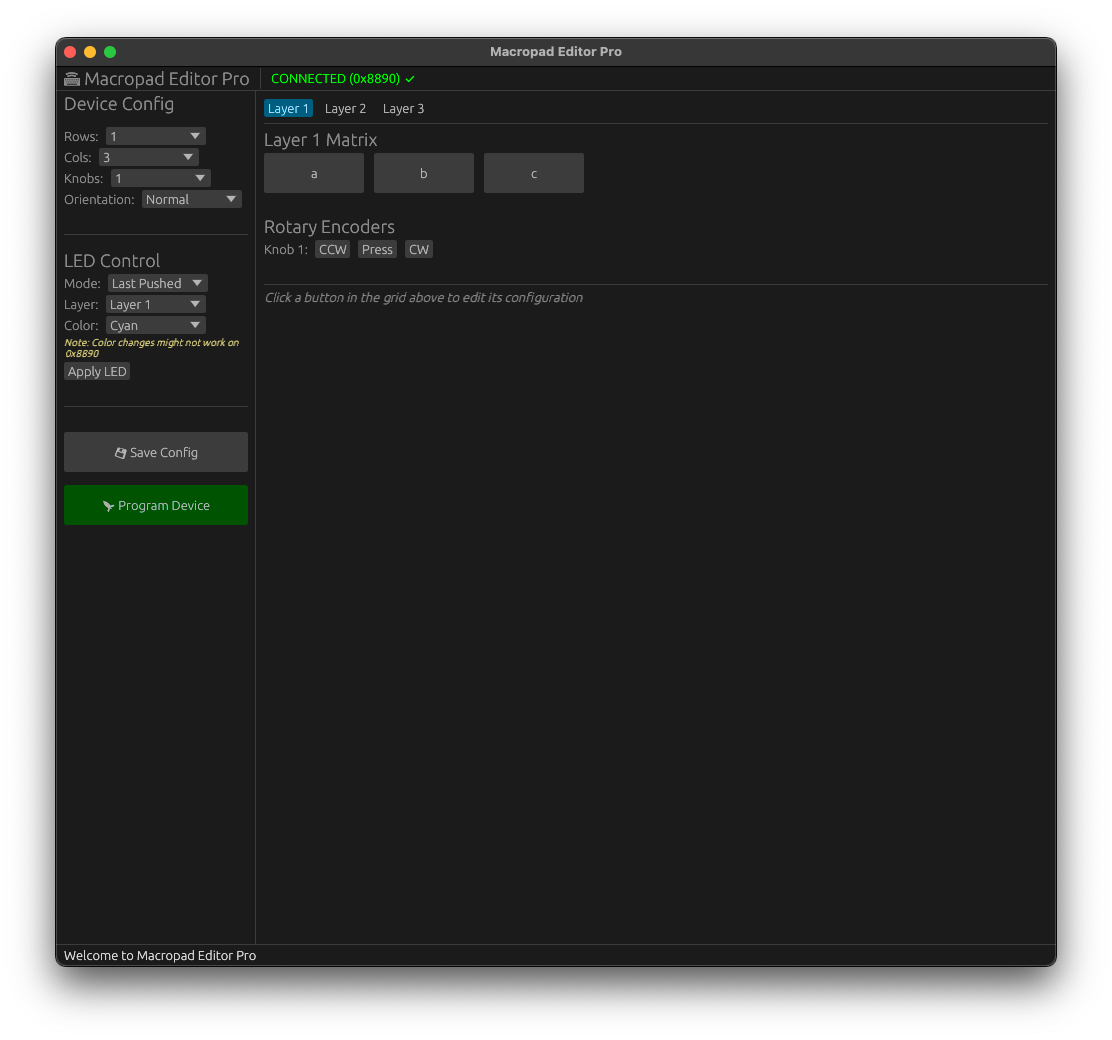
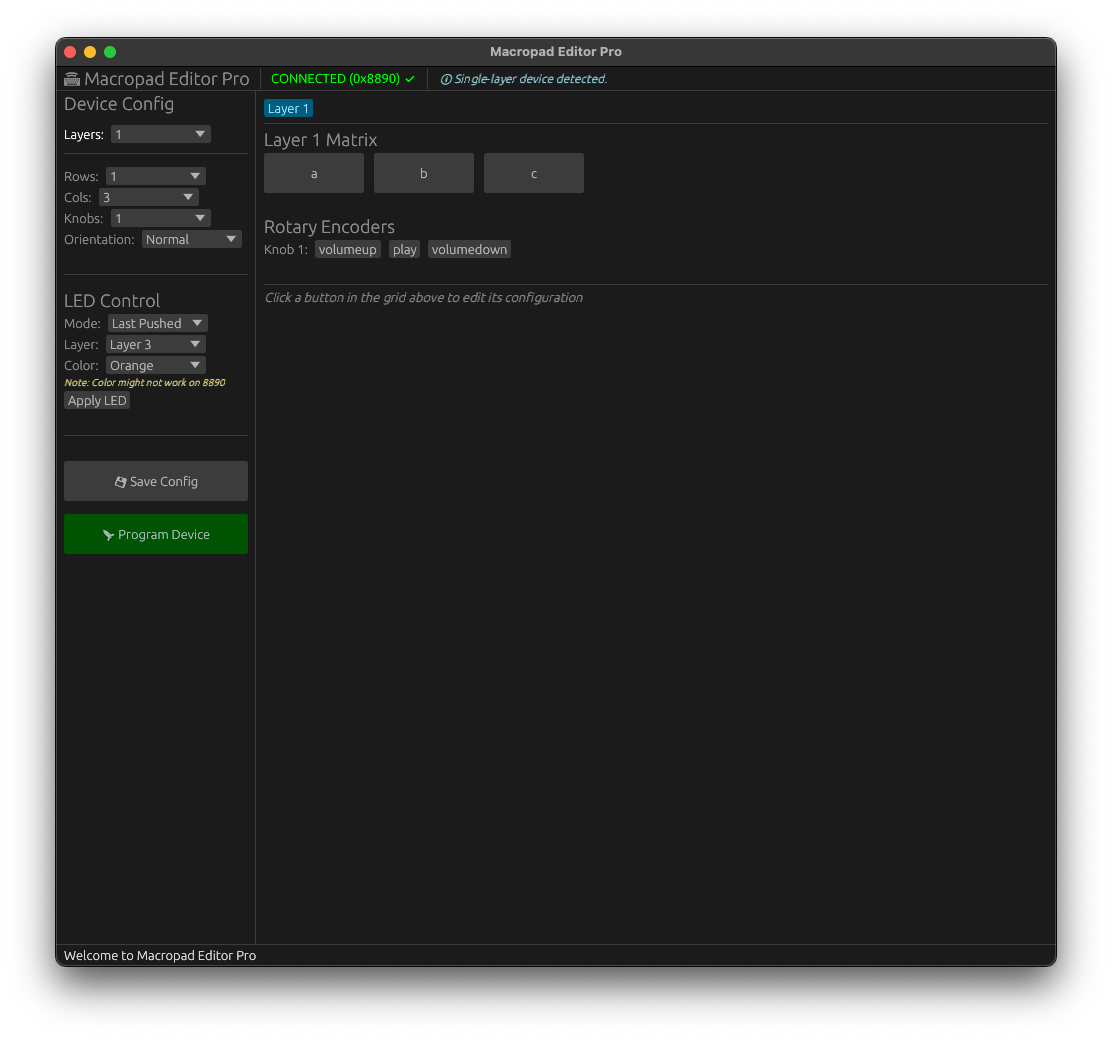
Update README with macOS testing note and finalize GUI features

Changed region(s): [[0.0306, 0.1231, 0.2446, 0.5538], [0.2752, 0.2154, 0.4586, 0.2462], [0.3975, 0.0615, 0.5504, 0.0923]]

diff --git a/src/gui.rs b/src/gui.rs
@@ -2,13 +2,12 @@ use eframe::egui;
 use crate::options::{Options, Command, DevelOptions};
 use crate::consts::VENDOR_ID;
 use crate::mapping::{Mapping, Macropad, Layer, LedSettings};
-use crate::keyboard::{Modifier, MediaCode, LedColor};
+use crate::keyboard::LedColor;
 use crate::config::Orientation;
 use crate::{open_keyboard, find_device};
 use std::sync::{Arc, Mutex, MutexGuard};
 use std::time::{Duration, Instant};
 use std::thread;
-use strum::IntoEnumIterator;
 
 pub fn main() {
     let native_options = eframe::NativeOptions {
@@ -166,17 +165,6 @@ impl MacropadApp {
         data.status_color = egui::Color32::KHAKI;
     }
 
-    fn insert_key(&mut self, key: &str) {
-        if self.temp_editor_val.is_empty() || self.temp_editor_val.ends_with('-') || self.temp_editor_val.ends_with(',') {
-            self.temp_editor_val.push_str(key);
-        } else {
-            if key.ends_with('-') { self.temp_editor_val.push_str(key); }
-            else { self.temp_editor_val.push_str(","); self.temp_editor_val.push_str(key); }
-        }
-        let mut data = DATA.lock().unwrap();
-        self.sync_temp_to_data(&mut data);
-    }
-
     fn sync_temp_to_data(&self, data: &mut MutexGuard<EditorData>) {
         let layer_idx = data.current_layer_idx;
         let delay = self.temp_delay_val.parse::<u16>().unwrap_or(0);
@@ -262,7 +250,6 @@ impl eframe::App for MacropadApp {
             ui.heading("Device Config");
             ui.add_space(8.0);
             
-            // LAYERS AT TOP
             ui.horizontal(|ui| {
                 ui.label(egui::RichText::new("Layers:").strong());
                 egui::ComboBox::from_id_salt("layers_cb").selected_text(self.ui_layers.to_string()).show_ui(ui, |ui| {
@@ -415,12 +402,15 @@ impl eframe::App for MacropadApp {
                         ui.label("Delay (ms):"); if ui.text_edit_singleline(&mut self.temp_delay_val).changed() { self.sync_temp_to_data(&mut d); }
                         ui.add_space(20.0); ui.label("Mapping:"); if ui.text_edit_singleline(&mut self.temp_editor_val).changed() { self.sync_temp_to_data(&mut d); }
                     });
-                    ui.add_space(10.0); ui.label("AVAILABLE CODES (Click to insert):");
-                    let mut key_to_insert = None;
-                    ui.horizontal_wrapped(|ui| { ui.label("Mods:"); for m in Modifier::iter() { let key = format!("{}-", m.to_string().to_lowercase()); if ui.small_button(&key).clicked() { key_to_insert = Some(key); } } });
-                    ui.horizontal_wrapped(|ui| { ui.label("Media:"); for m in MediaCode::iter() { let key = m.to_string().to_lowercase(); if ui.small_button(&key).clicked() { key_to_insert = Some(key); } } });
-                    ui.horizontal_wrapped(|ui| { ui.label("More:"); for key in ["click", "rclick", "mclick", "wheelup", "wheeldown", "space", "enter", "backspace", "tab", "esc", ","] { if ui.small_button(key).clicked() { key_to_insert = Some(key.to_string()); } } });
-                    if let Some(key) = key_to_insert { self.insert_key(&key); }
+                    ui.add_space(10.0);
+                    ui.heading("Code Reference Legend");
+                    ui.group(|ui| {
+                        ui.horizontal(|ui| { ui.label(egui::RichText::new("Modifiers:").strong()); ui.label("ctrl-, shift-, alt-, win-, rctrl-, rshift-, ralt-, rwin-"); });
+                        ui.horizontal(|ui| { ui.label(egui::RichText::new("Media:").strong()); ui.label("play, stop, next, prev, mute, volup, voldown, brightnessup, brightnessdown"); });
+                        ui.horizontal(|ui| { ui.label(egui::RichText::new("Mouse:").strong()); ui.label("click, rclick, mclick, wheelup, wheeldown"); });
+                        ui.horizontal(|ui| { ui.label(egui::RichText::new("Other:").strong()); ui.label("space, enter, backspace, tab, esc, comma, dot, slash, a-z, 0-9, f1-f24"); });
+                        ui.label(egui::RichText::new("Hint: Use commas to sequence commands (e.g. ctrl-c,ctrl-v) and dashes for combos (e.g. shift-a)").italics().size(11.0));
+                    });
                 } else { ui.label(egui::RichText::new("Click a button in the grid above to edit its configuration").italics()); }
             });
         });
